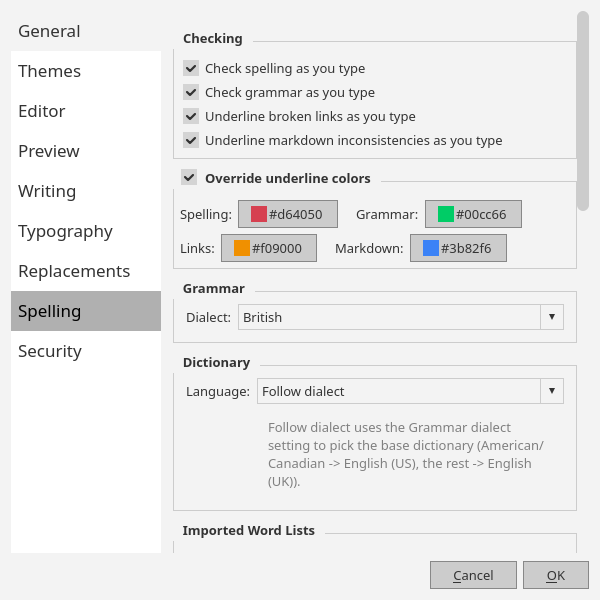
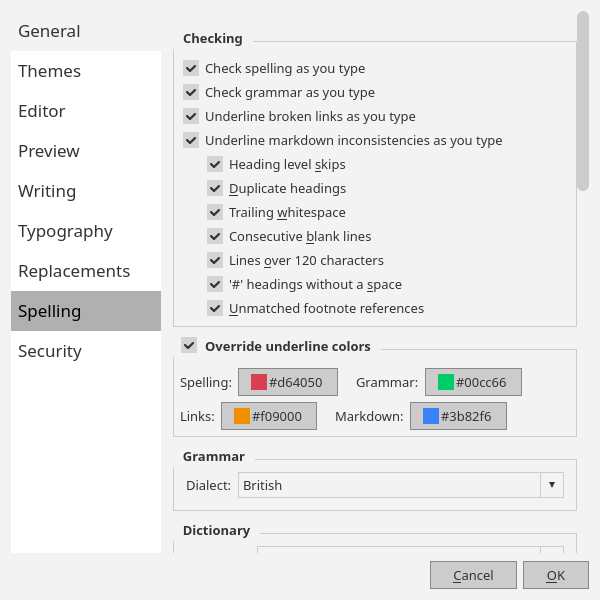
feat: user gets to choose which markdown linting options to use for real-time linting in preferences/spelling

diff --git a/src/PreferencesDialog.cpp b/src/PreferencesDialog.cpp
@@ -44,6 +44,7 @@
 #include <QColorDialog>
 #include <QDoubleSpinBox>
 #include <QStyledItemDelegate>
+#include <array>
 #include <QPainter>
 #include <QStyleOptionViewItem>
 #include <QModelIndex>
@@ -1016,6 +1017,34 @@ void PreferencesDialog::setupUi(const QString &themeBgColor, const QString &them
         m_markdownCheckCheck->setChecked(settings.value(Preferences::MarkdownCheckEnabled, false).toBool());
         checkLayout->addWidget(m_markdownCheckCheck);
 
+        struct MdCheckDef {
+            const char *key;
+            const char *label;
+        };
+        static const std::array<MdCheckDef, 7> kMdChecks = {{
+            {Preferences::MarkdownCheckHeadingLevelSkip, "Heading level &skips"},
+            {Preferences::MarkdownCheckDuplicateHeading, "&Duplicate headings"},
+            {Preferences::MarkdownCheckTrailingWhitespace, "Trailing &whitespace"},
+            {Preferences::MarkdownCheckConsecutiveBlankLines, "Consecutive &blank lines"},
+            {Preferences::MarkdownCheckOverlongLine, "Lines &over 120 characters"},
+            {Preferences::MarkdownCheckHashNoSpace, "'#' headings without a &space"},
+            {Preferences::MarkdownCheckFootnoteReference, "&Unmatched footnote references"},
+        }};
+        auto *mdSubLayout = new QVBoxLayout;
+        mdSubLayout->setContentsMargins(24, 0, 0, 0);
+        for (const auto &def : kMdChecks) {
+            auto *check = new QCheckBox(tr(def.label));
+            check->setChecked(settings.value(QLatin1String(def.key), true).toBool());
+            check->setEnabled(m_markdownCheckCheck->isChecked());
+            m_markdownSubChecks.append(check);
+            mdSubLayout->addWidget(check);
+        }
+        checkLayout->addLayout(mdSubLayout);
+        connect(m_markdownCheckCheck, &QCheckBox::toggled, this, [this](bool checked) {
+            for (auto *check : m_markdownSubChecks)
+                check->setEnabled(checked);
+        });
+
         layout->addWidget(checkGroup);
 
         QGroupBox *underlineGroup = new QGroupBox("Override underline colors");
@@ -1496,6 +1525,18 @@ void PreferencesDialog::setupUi(const QString &themeBgColor, const QString &them
         settings.setValue(Preferences::GrammarCheckEnabled, m_grammarCheckCheck->isChecked());
         settings.setValue(Preferences::LinkCheckEnabled, m_linkCheckCheck->isChecked());
         settings.setValue(Preferences::MarkdownCheckEnabled, m_markdownCheckCheck->isChecked());
+        static const std::array<const char *, 7> kMdCheckKeys = {{
+            Preferences::MarkdownCheckHeadingLevelSkip,
+            Preferences::MarkdownCheckDuplicateHeading,
+            Preferences::MarkdownCheckTrailingWhitespace,
+            Preferences::MarkdownCheckConsecutiveBlankLines,
+            Preferences::MarkdownCheckOverlongLine,
+            Preferences::MarkdownCheckHashNoSpace,
+            Preferences::MarkdownCheckFootnoteReference,
+        }};
+        for (qsizetype i = 0; i < m_markdownSubChecks.size(); ++i)
+            settings.setValue(QLatin1String(kMdCheckKeys[static_cast<size_t>(i)]),
+                              m_markdownSubChecks.at(i)->isChecked());
         settings.setValue(Preferences::UnderlineColorOverride, m_underlineColorGroup->isChecked());
         settings.setValue(Preferences::SpellUnderlineColor, m_spellColorBtn->text());
         settings.setValue(Preferences::GrammarUnderlineColor, m_grammarColorBtn->text());

diff --git a/src/Editor.cpp b/src/Editor.cpp
@@ -17,6 +17,7 @@
 #include "Gutter.h"
 #include "StoppardEngine.h"
 #include "Preferences.h"
+#include "MarkdownChecker.h"
 #include "SpellChecker.h"
 #include "StaticHelpers.h"
 #include <algorithm>
@@ -63,6 +64,35 @@ GrammarChecker *sharedGrammarChecker()
         .value(Preferences::GrammarDialect, QStringLiteral("American"))
         .toString();
     return new StoppardEngine(dialect);
+}
+
+// Reads the per-check real-time markdown-consistency toggles from `settings`.
+// When the master `MarkdownCheckEnabled` is off no checks run; otherwise each
+// check is enabled unless its key is explicitly disabled.
+QSet<MarkdownChecker::Check> markdownChecksFromSettings(const QSettings &settings,
+                                                        bool masterEnabled)
+{
+    if (!masterEnabled)
+        return {};
+    auto on = [&settings](const char *key) {
+        return settings.value(QLatin1String(key), true).toBool();
+    };
+    QSet<MarkdownChecker::Check> checks;
+    if (on(Preferences::MarkdownCheckHeadingLevelSkip))
+        checks.insert(MarkdownChecker::Check::HeadingLevelSkip);
+    if (on(Preferences::MarkdownCheckDuplicateHeading))
+        checks.insert(MarkdownChecker::Check::DuplicateHeading);
+    if (on(Preferences::MarkdownCheckTrailingWhitespace))
+        checks.insert(MarkdownChecker::Check::TrailingWhitespace);
+    if (on(Preferences::MarkdownCheckConsecutiveBlankLines))
+        checks.insert(MarkdownChecker::Check::ConsecutiveBlankLines);
+    if (on(Preferences::MarkdownCheckOverlongLine))
+        checks.insert(MarkdownChecker::Check::OverlongLine);
+    if (on(Preferences::MarkdownCheckHashNoSpace))
+        checks.insert(MarkdownChecker::Check::HashNoSpace);
+    if (on(Preferences::MarkdownCheckFootnoteReference))
+        checks.insert(MarkdownChecker::Check::FootnoteReference);
+    return checks;
 }
 
 } // namespace
@@ -1239,6 +1269,7 @@ void Editor::applySpellSettings()
     const bool grammarEnabled = s.value(Preferences::GrammarCheckEnabled, false).toBool();
     const bool linkEnabled = s.value(Preferences::LinkCheckEnabled, true).toBool();
     const bool markdownEnabled = s.value(Preferences::MarkdownCheckEnabled, false).toBool();
+
     // Empty = "follow dialect": the grammar dialect selects the base dictionary.
     const QString language = s.value(Preferences::DictionaryLanguage).toString();
     const QString dialect = s.value(Preferences::GrammarDialect, QStringLiteral("American")).toString();
@@ -1264,6 +1295,7 @@ void Editor::applySpellSettings()
     m_spellHighlighter->setGrammarCheckingEnabled(grammarEnabled);
     m_spellHighlighter->setLinkCheckingEnabled(linkEnabled);
     m_spellHighlighter->setMarkdownCheckingEnabled(markdownEnabled);
+    m_spellHighlighter->setMarkdownChecks(markdownChecksFromSettings(s, markdownEnabled));
 
     if (auto *stoppard = dynamic_cast<StoppardEngine *>(m_grammarChecker.get()))
         stoppard->setDialect(dialect);

diff --git a/tests/test_underline_overlay.cpp b/tests/test_underline_overlay.cpp
@@ -232,11 +232,37 @@ TEST_F(UnderlineOverlayTest, ExplanationShownForMarkdownDuplicateHeading)
         << "a clean heading must have no explanation";
 }
 
+TEST_F(UnderlineOverlayTest, MarkdownSubChecksGateWhichUnderlinesAppear)
+{
+    QSettings().setValue(Preferences::MarkdownCheckEnabled, true);
+    // Only duplicate-heading checking on; everything else off for real time.
+    QSettings().setValue(Preferences::MarkdownCheckHeadingLevelSkip, false);
+    QSettings().setValue(Preferences::MarkdownCheckDuplicateHeading, true);
+    QSettings().setValue(Preferences::MarkdownCheckTrailingWhitespace, false);
+    QSettings().setValue(Preferences::MarkdownCheckConsecutiveBlankLines, false);
+    QSettings().setValue(Preferences::MarkdownCheckOverlongLine, false);
+    QSettings().setValue(Preferences::MarkdownCheckHashNoSpace, false);
+    QSettings().setValue(Preferences::MarkdownCheckFootnoteReference, false);
+    m_editor->recheckSpelling();
+
+    // Line 1 is a duplicate heading; line 2 has trailing whitespace.
+    m_editor->setPlainText(QStringLiteral("# Title\n# Title\ntext   "));
+    m_editor->spellHighlighter()->refresh();
+
+    auto *hl = m_editor->findChild<SpellHighlighter *>();
+    ASSERT_NE(hl, nullptr);
+    const auto dupHits = hl->markdownHitsInBlock(1);
+    ASSERT_FALSE(dupHits.isEmpty());
+    EXPECT_TRUE(dupHits.at(0).message.contains(QStringLiteral("Duplicate heading")));
+    EXPECT_TRUE(hl->markdownHitsInBlock(2).isEmpty())
+        << "trailing whitespace must not be flagged when that sub-check is off";
+    EXPECT_TRUE(hl->markdownHitsInBlock(0).isEmpty());
+}
+
 TEST_F(UnderlineOverlayTest, ExplanationShownForBrokenLink)
 {
     QSettings().setValue(Preferences::SpellCheckEnabled, false);
     m_editor->recheckSpelling();
-
     QTemporaryDir dir;
     ASSERT_TRUE(dir.isValid());
     QFile exists(dir.filePath(QStringLiteral("exists.md")));

diff --git a/src/SpellHighlighter.h b/src/SpellHighlighter.h
@@ -15,6 +15,7 @@
 #pragma once
 
 #include "GrammarChecker.h"
+#include "MarkdownChecker.h"
 #include <QDateTime>
 #include <QHash>
 #include <QList>
@@ -132,6 +133,10 @@ public:
     // headings, `#` headings without a space, ...). Off by default: it is a
     // per-keystroke distraction, so like grammar it must be opted into.
     void setMarkdownCheckingEnabled(bool enabled);
+    // The subset of markdown-consistency checks to underline. The checks are
+    // read from the preferences; an empty set underlines nothing. Changing
+    // them re-runs the scan so underlines follow immediately.
+    void setMarkdownChecks(const QSet<MarkdownChecker::Check> &checks);
     // The document's file path: link targets are resolved relative to its
     // directory (an empty path resolves against the current working
     // directory). Triggers a re-check so underlines follow the new base.
@@ -222,6 +227,8 @@ private:
     bool m_grammarEnabled = false;
     bool m_linkEnabled = true;
     bool m_markdownEnabled = false;
+    // The markdown-consistency checks to underline; empty disables them all.
+    QSet<MarkdownChecker::Check> m_markdownChecks = MarkdownChecker::defaultChecks();
     // The document's file path, for resolving relative link targets.
     QString m_currentFile;
     // Cached heading indexes of other documents, keyed by absolute path and

diff --git a/src/Preferences.h b/src/Preferences.h
@@ -94,6 +94,16 @@ namespace Preferences {
     constexpr const char *GrammarCheckEnabled = "grammarCheckEnabled";
     constexpr const char *LinkCheckEnabled = "linkCheckEnabled";
     constexpr const char *MarkdownCheckEnabled = "markdownCheckEnabled";
+    // Per-check toggles for the real-time (in-editor) markdown-consistency
+    // underlines. Independent of the Validation Report dialog's own selection.
+    // Each defaults to enabled; only meaningful while MarkdownCheckEnabled is on.
+    constexpr const char *MarkdownCheckHeadingLevelSkip = "mdRealHeadingLevelSkip";
+    constexpr const char *MarkdownCheckDuplicateHeading = "mdRealDuplicateHeading";
+    constexpr const char *MarkdownCheckTrailingWhitespace = "mdRealTrailingWhitespace";
+    constexpr const char *MarkdownCheckConsecutiveBlankLines = "mdRealBlankLines";
+    constexpr const char *MarkdownCheckOverlongLine = "mdRealOverlongLine";
+    constexpr const char *MarkdownCheckHashNoSpace = "mdRealHashNoSpace";
+    constexpr const char *MarkdownCheckFootnoteReference = "mdRealFootnote";
     constexpr const char *DictionaryLanguage = "dictionaryLanguage";
     constexpr const char *GrammarDialect = "grammarDialect";
     constexpr const char *UnderlineColorOverride = "underlineColorOverride";

diff --git a/src/SpellHighlighter.cpp b/src/SpellHighlighter.cpp
@@ -293,6 +293,16 @@ void SpellHighlighter::setMarkdownCheckingEnabled(bool enabled)
         emit spellHitsChanged(); // clear any painted underlines
 }
 
+void SpellHighlighter::setMarkdownChecks(const QSet<MarkdownChecker::Check> &checks)
+{
+    m_markdownChecks = checks;
+    m_markdownHits.clear();
+    if (m_markdownEnabled)
+        runSpellCheck(); // recompute so underlines follow the new selection
+    else
+        emit spellHitsChanged(); // clear any painted underlines
+}
+
 void SpellHighlighter::setCurrentFile(const QString &path)
 {
     m_currentFile = path;
@@ -406,7 +416,8 @@ void SpellHighlighter::runSpellCheck()
             lines.append(block.text());
         m_markdownHits.clear();
         // Issue::line is 1-based and lines map 1:1 to blocks.
-        const auto mdIssues = MarkdownChecker::scan(lines.join(QLatin1Char('\n')));
+        const auto mdIssues = MarkdownChecker::scan(lines.join(QLatin1Char('\n')),
+                                                    m_markdownChecks);
         for (const auto &issue : mdIssues) {
             const int blockNumber = issue.line - 1;
             if (blockNumber < 0 || blockNumber >= lines.size())

diff --git a/src/PreferencesDialog.h b/src/PreferencesDialog.h
@@ -155,6 +155,7 @@ private:
     QCheckBox *m_grammarCheckCheck;
     QCheckBox *m_linkCheckCheck;
     QCheckBox *m_markdownCheckCheck;
+    QVector<QCheckBox*> m_markdownSubChecks; // per-rule real-time markdown checks
     QComboBox *m_languageCombo;
     QComboBox *m_grammarDialectCombo;
     QListWidget *m_customWordsList;

diff --git a/AGENTS.md b/AGENTS.md
@@ -44,8 +44,9 @@ Full check after any code/resource change:
 2. `cd build-dbg && ctest --output-on-failure -j4` — tests pass
 3. `cmake --build build -j4` — rebuild the Release binary
 4. `timeout 10 build/scriba || true` — smoke-test the **freshly** built Release binary
+5. (UI changes only) `scripts/update-screenshot.sh <affected targets>` — regenerate the screenshot gallery from the **freshly** built Release binary
 
-Step 4 must come AFTER step 3. Running it right after step 1/2 smoke-tests a stale `build/scriba` from the previous Release build.
+Steps 4 and 5 must come AFTER step 3. Running them right after step 1/2 smoke-tests / captures screenshots from a stale `build/scriba` from the previous Release build. The screenshot script expects a pre-built binary at `build/scriba` (it only builds one if none exists, which would then be a Release build anyway — but if a stale one is present it will happily capture that instead, so always rebuild first).
 
 ## Package (Linux)
 
